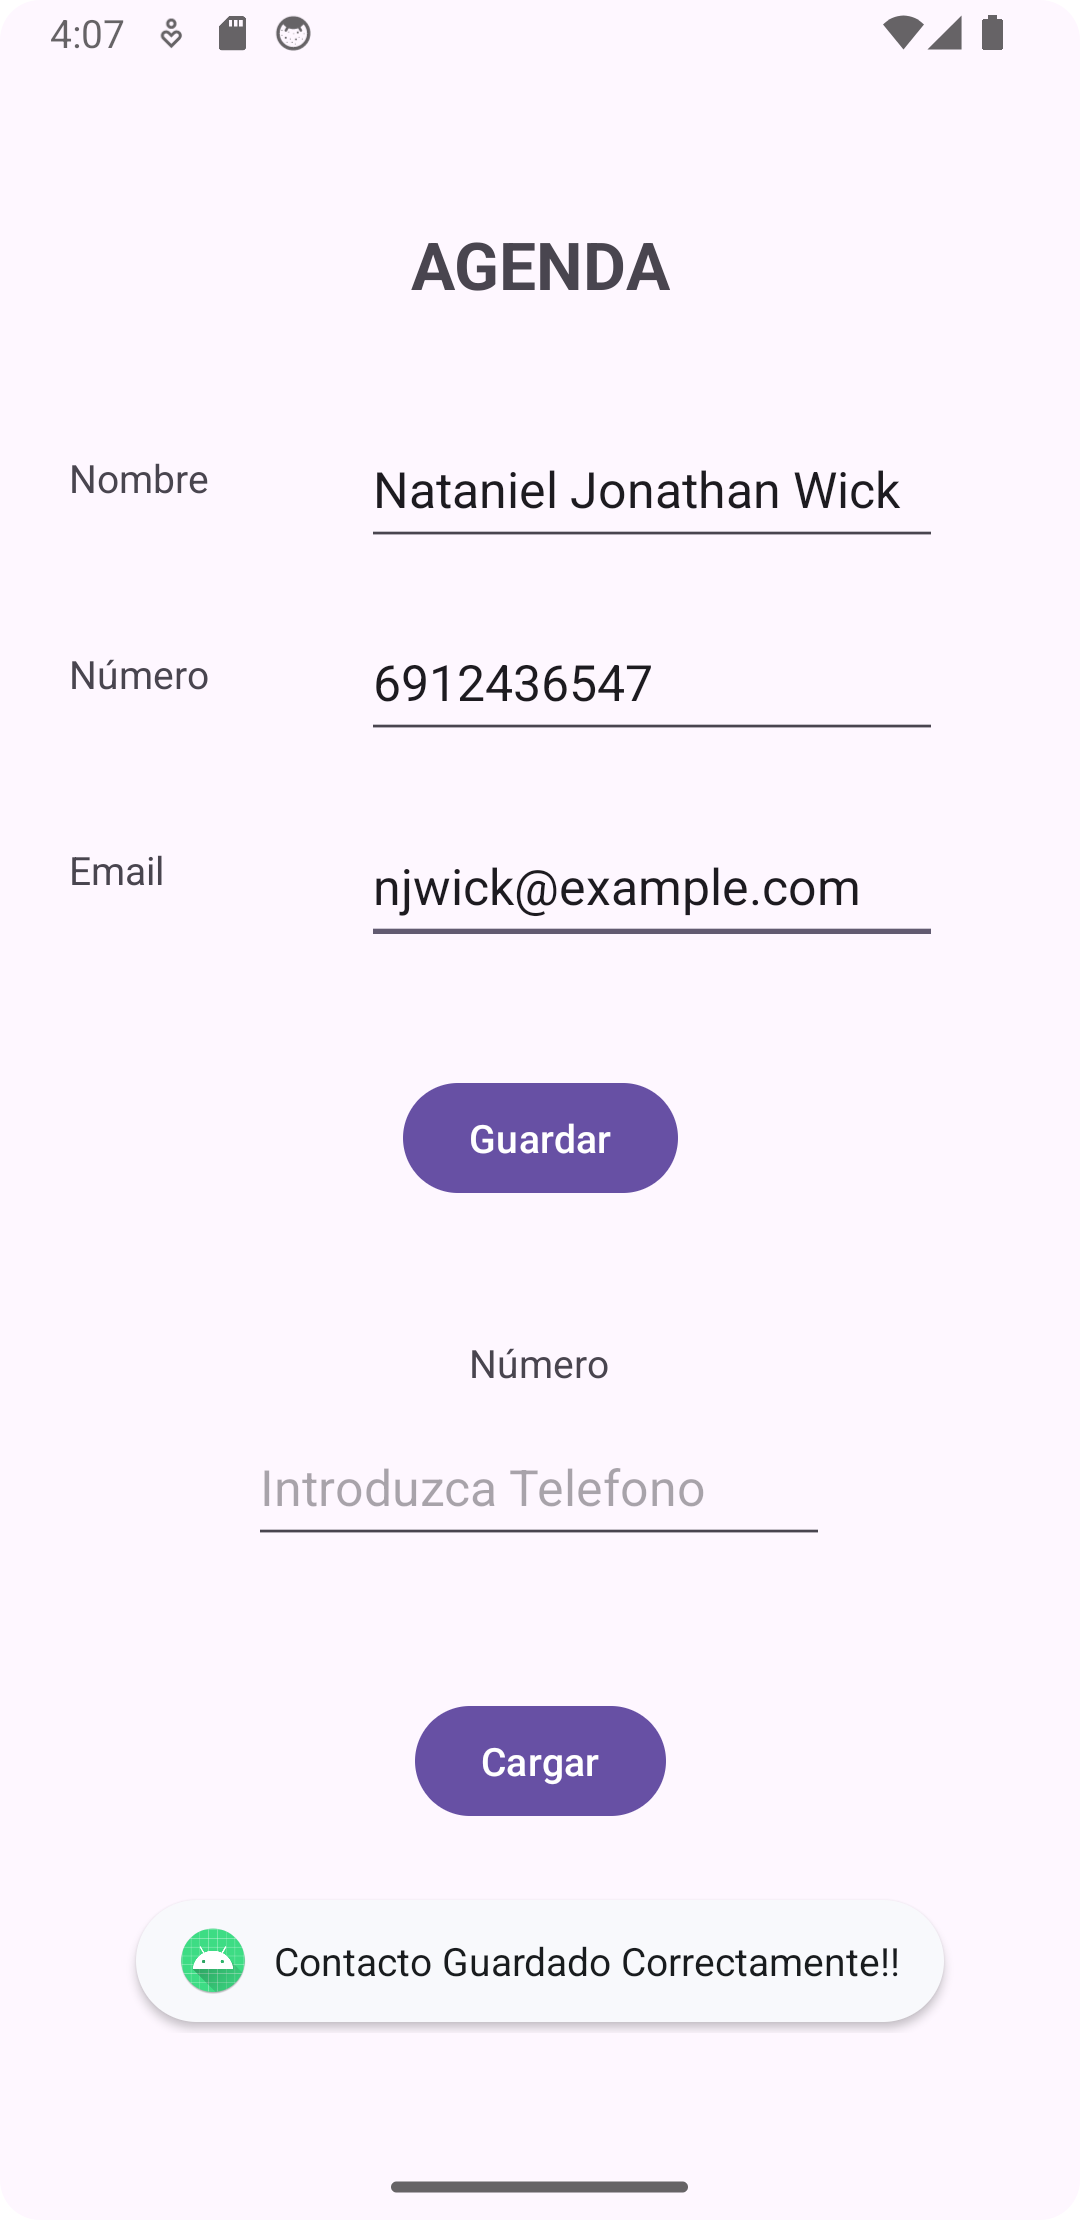
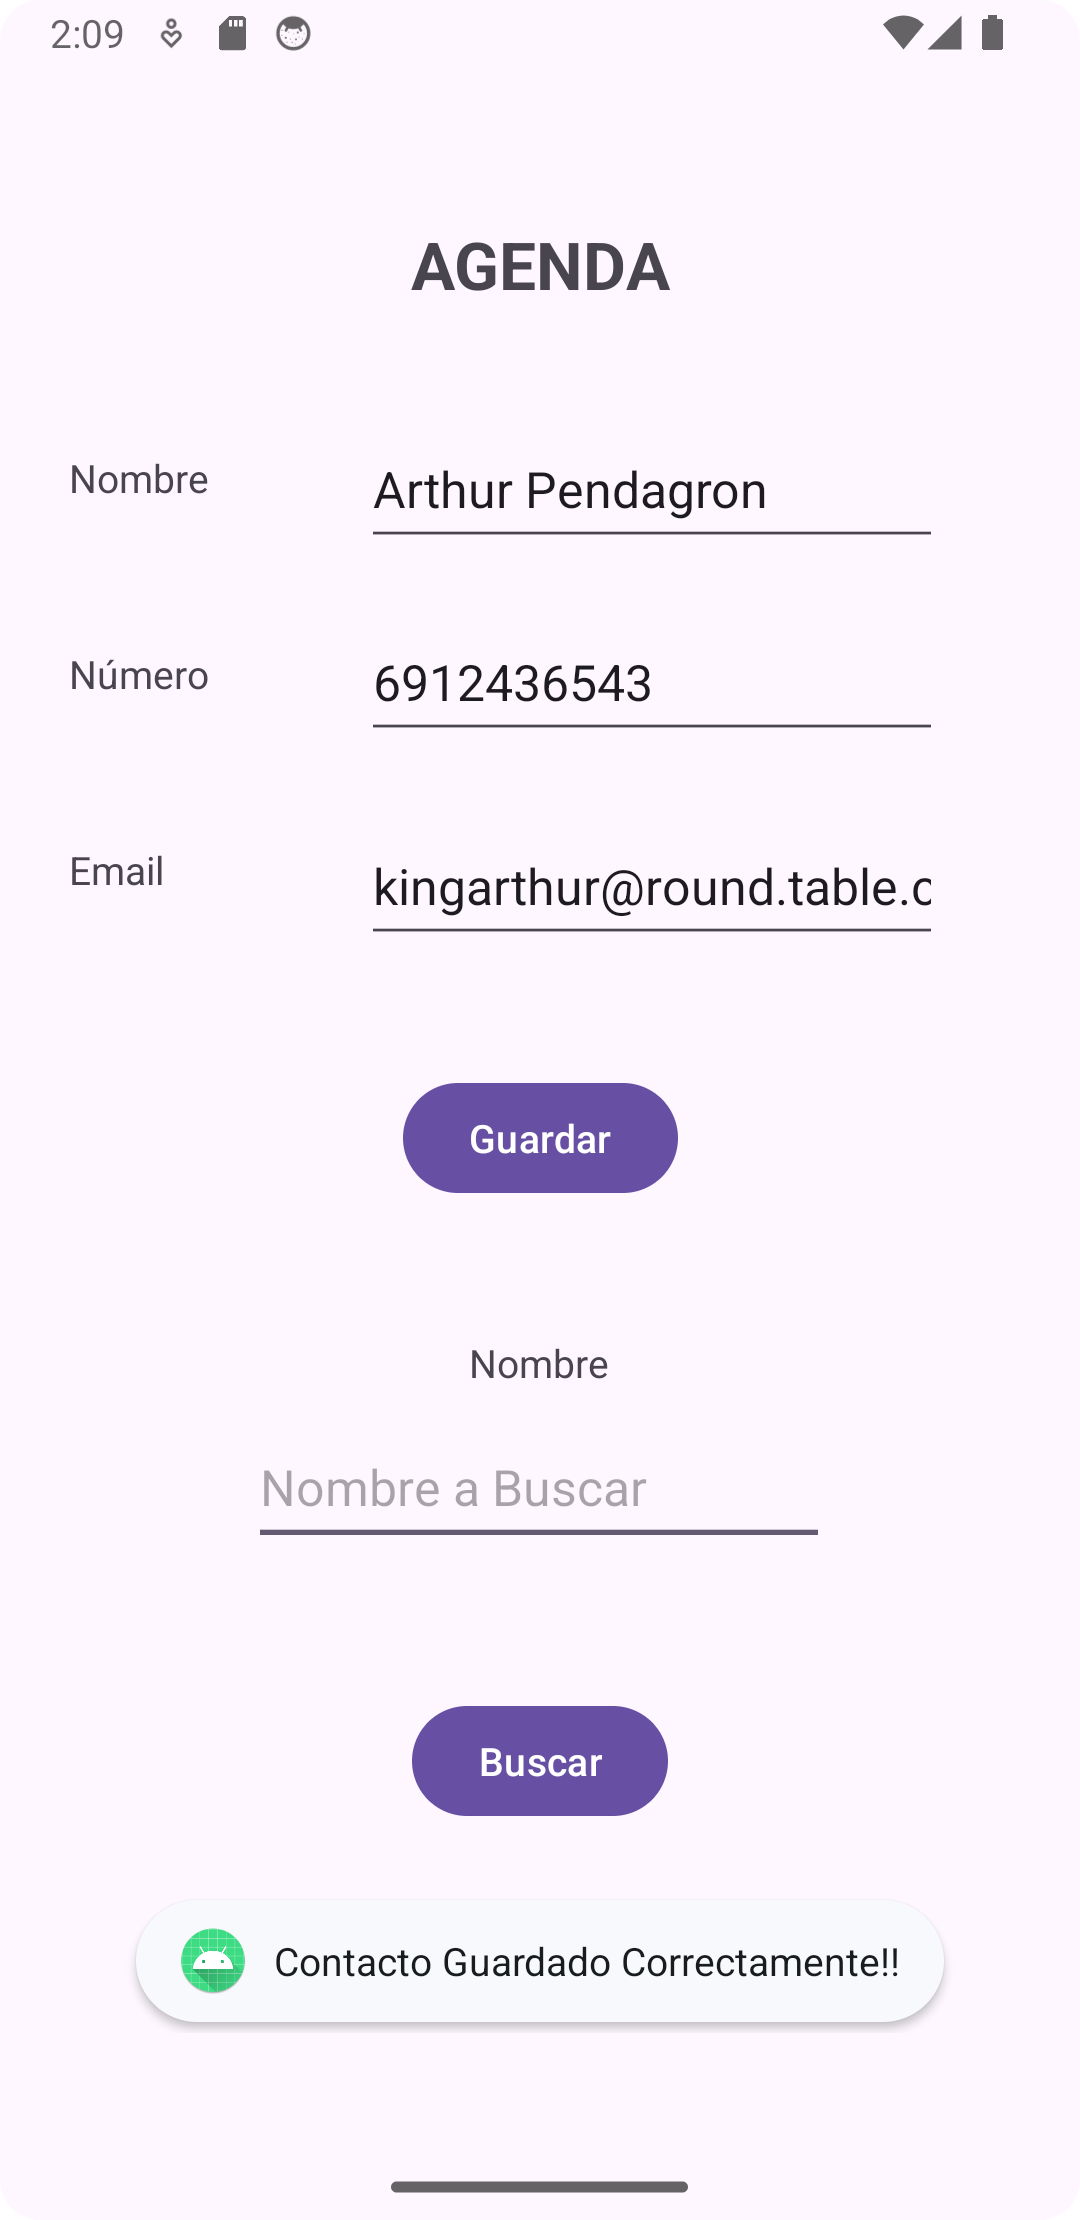
Remplazo de imagenes en el README.

diff --git a/app/src/main/java/com/dadelatorrep/agenda/MainActivity.java b/app/src/main/java/com/dadelatorrep/agenda/MainActivity.java
@@ -82,7 +82,7 @@ public class MainActivity extends AppCompatActivity {
         boolean encontrado = false;
         for (String contactoString : contactosSet) {
             String[] partesContacto = contactoString.split(",");
-            String idContacto = partesContacto[1]; // Suponiendo que el ID está en la posición del teléfono
+            String idContacto = partesContacto[0]; // Suponiendo que el ID está en la posición del teléfono
 
             // Si el ID coincide, mostrar los detalles del contacto
             if (idContacto.equals(idBuscar)) {
@@ -104,7 +104,7 @@ public class MainActivity extends AppCompatActivity {
         if (encontrado) {
             Toast.makeText(this, "El contacto se ha encontrado y mostrado exitosamente.", Toast.LENGTH_LONG).show();
         } else {
-            Toast.makeText(this, "No se encontró ningún contacto con el ID especificado", Toast.LENGTH_LONG).show();
+            Toast.makeText(this, "No se encontró ningún contacto con el Nombre especificado", Toast.LENGTH_LONG).show();
         }
     }
 
